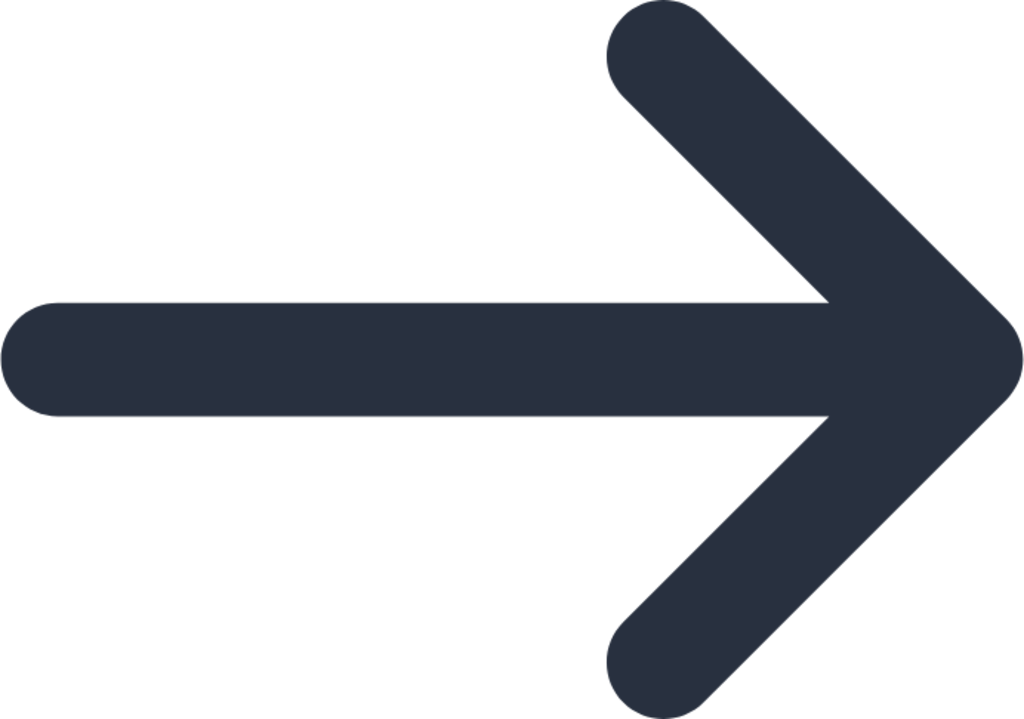
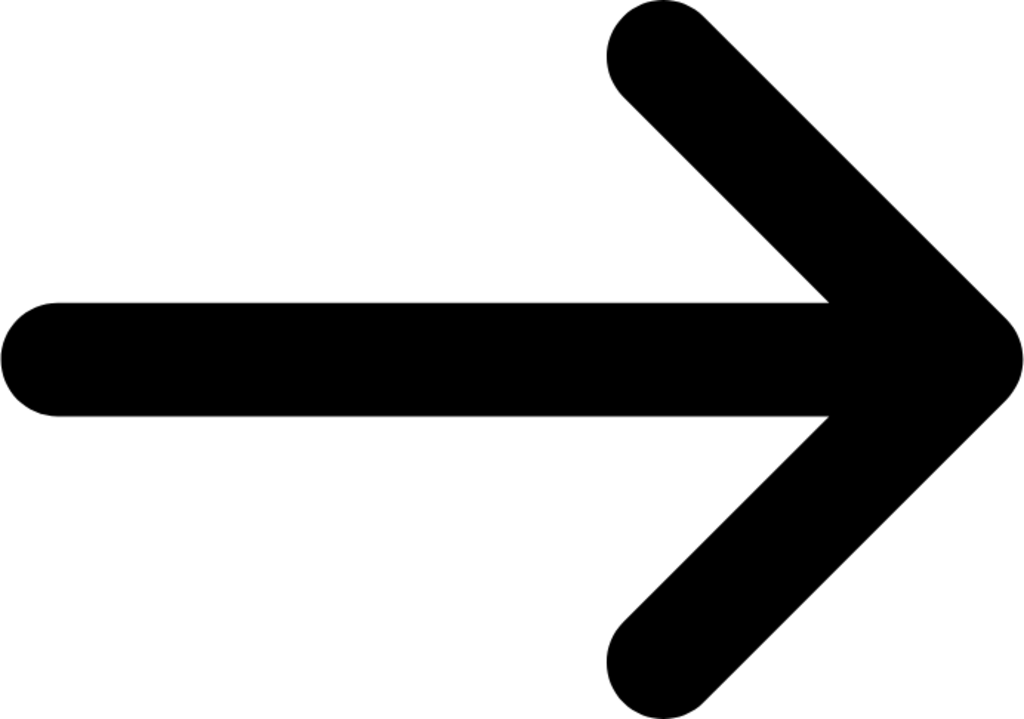
"trackers" section, updated media, updated styling
added a section for trackers, such as Backloggd and Letterboxd, aswell as matching icons.
updated some icons for better coloring and centering.
fixed a bug with scrollwheel on the horizontal card scroll element.

Changed region(s): [[0.0, 0.0, 1.0, 1.0]]

diff --git a/style.css b/style.css
@@ -125,17 +125,16 @@ a:active {
     text-align: left;
     font-size: 75%;
     padding-bottom: 1em;
-    overflow-x: scroll; /* Enable horizontal scrolling */
-    display: block; /* Ensure it's block-level */
-    max-width: 100%; /* Or set to a fixed width if needed */
-    position: relative; /* Ensure it can contain absolutely positioned elements */
+    display: block;
+    max-width: 100%;
+    position: relative;
 }
 
 #projects ul {
     display: flex;
     flex-direction: row;
     flex-wrap: nowrap;
-    overflow-x: scroll; /* Enable horizontal scroll */
+    overflow-x: scroll;
     white-space: nowrap;
     padding: 0.25em;
     margin: 0.25em;
@@ -145,8 +144,8 @@ a:active {
 
 .project-links {
     position: absolute;
-    bottom: 10px; /* Optional: Add some spacing from the bottom */
-    left: 10px; /* Optional: Add some spacing from the left */
+    bottom: 10px;
+    left: 10px;
     display: flex;
     gap: 10px;
     padding-left: 7.5px;
@@ -157,7 +156,7 @@ a:active {
 }
 
 #projects ul li {
-    position: relative; /* This enables absolute positioning of project-links within each li */
+    position: relative;
     flex: 0 0 auto;
     text-align: left;
     background-color: var(--bg-col-dark);
@@ -174,14 +173,12 @@ a:active {
 	margin: 0em;
 }
 
-/* Add padding for text/links but not for the image */
 #projects ul li figcaption {
-	padding: 0 1em; /* Add left/right padding for text and links */
+	padding: 0 1em;
 }
 
 #projects ul li h3,
 #projects ul li p {
-	/* Ensure text wraps or is truncated appropriately */
 	overflow: hidden;
 	white-space: nowrap;
 }
@@ -198,7 +195,6 @@ a:active {
 	transition: opacity 0.2s ease-in-out;
 }
 
-/* Ensure the opacity changes when hovering the entire card */
 #projects ul li:hover img {
 	opacity: 1;
 }

diff --git a/index.html b/index.html
@@ -181,6 +181,27 @@
 
                <br>
 
+               <section id="trackers">
+                    <h2 style="margin: 0 0 0 0">trackers</h2>
+                    <p style="margin: 0 0 0.5em 0">here's the websites i use to track my games, movies, anime/manga and books!</p>
+                    <ul class="inline-list">
+                         <li>
+                              <a href="https://backloggd.com/u/cakeu/" target="_blank" rel="noopener noreferrer"><img class="a-icon" src="media/backloggd.png"> backloggd </a>
+                         </li>
+                         <li>
+                              <a href="https://letterboxd.com/cakeu/" target="_blank" rel="noopener noreferrer"><img class="a-icon" src="media/letterboxd.png"> letterboxd </a>
+                         </li>
+                         <li>
+                              <a href="https://myanimelist.net/profile/cake_san" target="_blank" rel="noopener noreferrer"><img class="a-icon" src="media/myanimelist.png"> myanimelist </a>
+                         </li>
+                         <li>
+                              <a href="https://www.goodreads.com/user/show/187918186-edward-diconi" target="_blank" rel="noopener noreferrer"><img class="a-icon" src="media/goodreads.png"> goodreads </a>
+                         </li>
+                    </ul>
+               </section>
+
+               <br>
+
                <footer>
                     <p>edward diconi</p>
                     <p aria-hidden="true">🖤</p>
